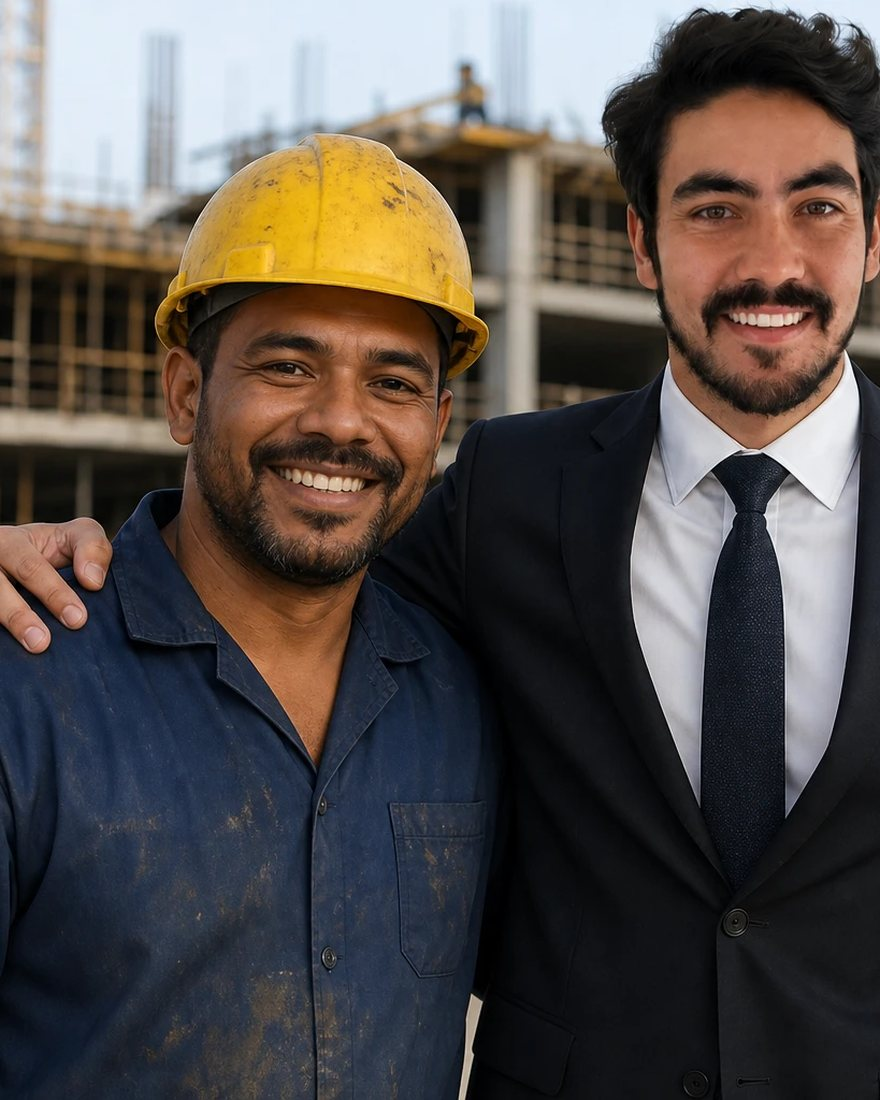
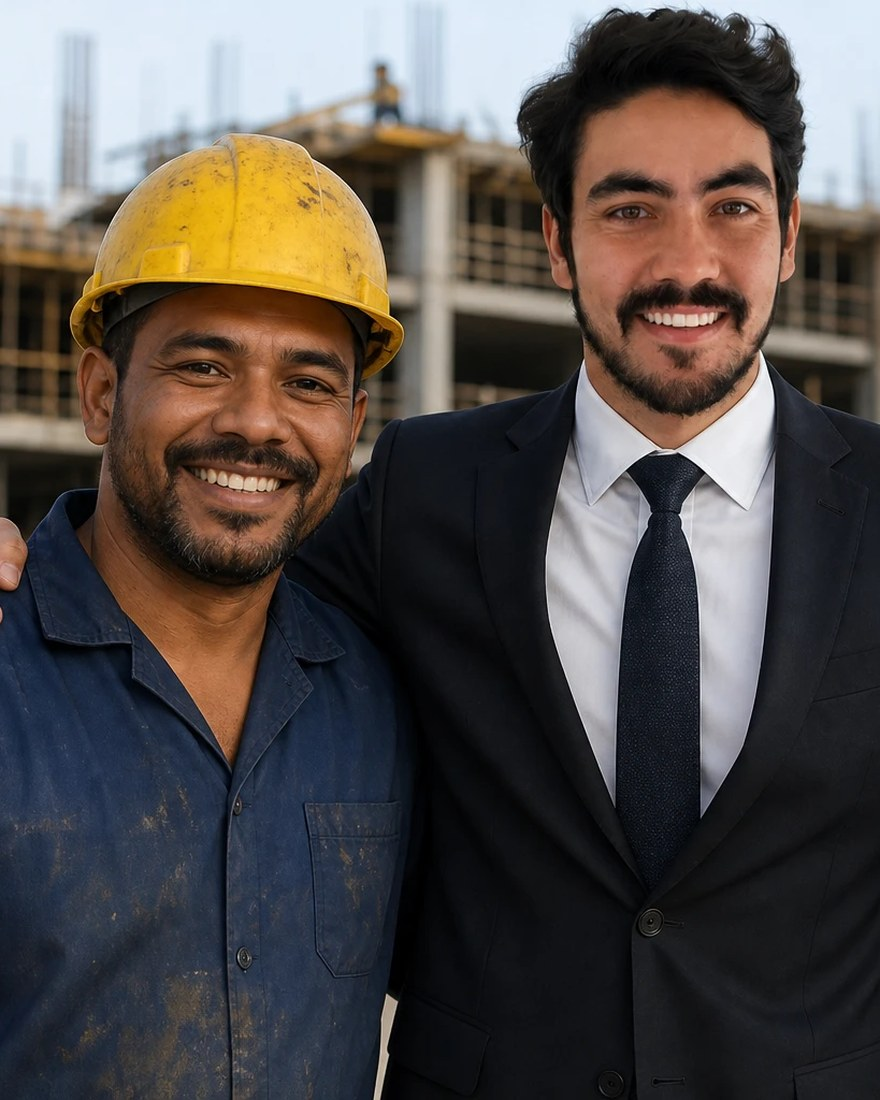
Reenquadra hero-slide-1 e usa no hero
Refaz o crop do slide 1 a partir da imagem original, centralizando melhor
o trabalhador e o advogado, sem espaço vazio a esquerda e sem cortar o
advogado a direita. Aponta o hero (mobile e desktop) para essa imagem.

Claude-Session: https://claude.ai/code/session_01XiHwGJsFtME5PkK8W3Ypsj

diff --git a/index.html b/index.html
@@ -117,7 +117,7 @@
           <span class="diamond d1"></span>
           <span class="diamond d2"></span>
           <div class="hero-photo-frame">
-            <img src="./hero-slide-3.jpg" alt="Everton Alves, advogado trabalhista, orientando um trabalhador sobre seus direitos" width="880" height="1100">
+            <img src="./hero-slide-1.jpg" alt="Everton Alves, advogado trabalhista, ao lado de um trabalhador em uma obra" width="880" height="1100">
           </div>
           <div class="stat-float">
             <span class="n"><span data-count="10">10</span>+</span>